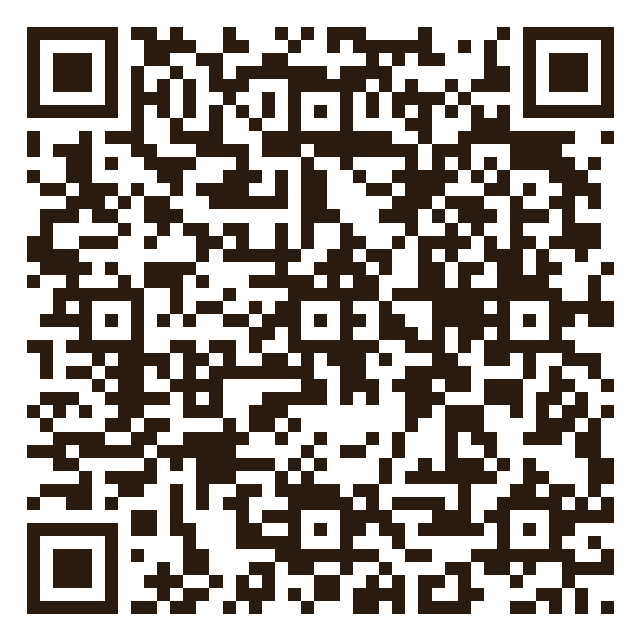
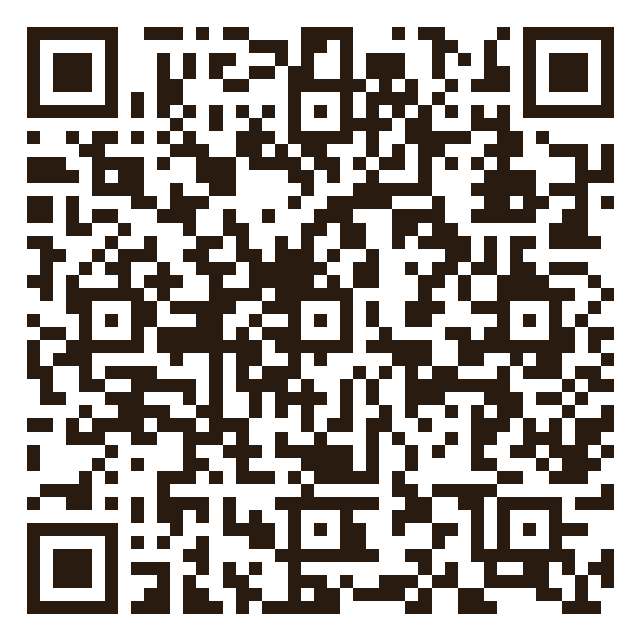
Número de WhatsApp nuevo: +54 9 11 7250-9550 (QRs y docs regenerados)
El sender productivo cambió de +5491162470002 a +5491172509550
(2026-08-12). Fuente de verdad actualizada (WHATSAPP_NUMERO en
src/lib/canales.ts): todos los links wa.me y QRs derivan de ahí.

- 8 QRs de qrs/ regenerados (qr:canales) y verificados por decodificación:
  todos apuntan a wa.me/5491172509550 con su marcador de canal intacto.
- Template del post de Instagram: QR nuevo montado en el mismo cuadro
  (reemplazo por detección del bbox del QR viejo), decodificado OK.
- docs/canales-acceso.md: número actualizado + advertencia operativa: los
  QRs impresos y links publicados con el número viejo QUEDAN MUERTOS y hay
  que reemplazarlos a mano (local, bio de IG, sitio, ficha de Google) — a
  diferencia del renombre de marca, esta vez el destino cambia.
- docs/whatsapp-plantillas.md: número actualizado + checklist del cambio de
  sender (secret TWILIO_WHATSAPP_FROM, webhook entrante del número nuevo,
  re-verificación de plantillas con whatsapp:plantilla).

El guia-qrs-canales.pdf no cambia: no contiene el número (los QRs viajan
aparte). Server-side pendiente (manual): actualizar el Project Secret y el
webhook del número en Twilio; pasos en el doc de plantillas.

Claude-Session: https://claude.ai/code/session_01PVEgtcT1KmyAfBK7x867K7

diff --git a/src/lib/canales.ts b/src/lib/canales.ts
@@ -10,8 +10,8 @@
 import type { OrigenLead } from '../fhir/identifiers.js';
 import { PORTAL_URL } from './onboarding.js';
 
-/** Número productivo de WhatsApp (E.164 sin '+'; el de wa.me). */
-export const WHATSAPP_NUMERO = '5491162470002';
+/** Número productivo de WhatsApp (E.164 sin '+'; el de wa.me). Cambiado 2026-08-12 (antes +5491162470002). */
+export const WHATSAPP_NUMERO = '5491172509550';
 
 /** URL base del portal (fuente de verdad: onboarding.ts — una sola, sin deriva). */
 export { PORTAL_URL };

diff --git a/docs/canales-acceso.md b/docs/canales-acceso.md
@@ -20,7 +20,13 @@ sistema pueda calcular o decidir.
 
 ## Canales, uno por uno
 
-### 1. WhatsApp directo — `wa.me/5491162470002` ✅ operativo
+> ⚠ **Cambio de número (2026-08-12):** el WhatsApp pasó de +54 9 11 6247-0002
+> a **+54 9 11 7250-9550**. QRs y links de este repo ya regenerados — pero
+> TODO lo publicado con el número viejo hay que reemplazarlo a mano: QRs
+> impresos en el local/flyers, link de la bio de Instagram, botón del sitio,
+> ficha de Google. Un QR viejo escaneado abre un chat que nadie atiende.
+
+### 1. WhatsApp directo — `wa.me/5491172509550` ✅ operativo
 El canal estrella: cualquier pieza (bio de Instagram, post de LinkedIn, QR,
 Google) puede apuntar al link `wa.me`. El mensaje entra **solo** a la bandeja.
 
@@ -141,7 +147,7 @@ Paquetes para equipos (p. ej. vía LinkedIn). Requiere definición comercial
 
 1. **Destino canónico del enlace público: WhatsApp para todo; el portal para
    autogestión.** Toda pieza pública (bio de IG, posts, QRs, ficha de Google)
-   apunta al `wa.me` del +54 9 11 6247-0002; el portal queda como segundo
+   apunta al `wa.me` del +54 9 11 7250-9550; el portal queda como segundo
    botón para quien prefiere autogestionarse.
 2. **Instagram DM: se deriva a WhatsApp** (respuesta corta en el DM + link
    `wa.me`). La integración del DM a la bandeja queda como mejora futura.

diff --git a/docs/whatsapp-plantillas.md b/docs/whatsapp-plantillas.md
@@ -1,6 +1,10 @@
 # WhatsApp en producción — plantillas de Meta (Twilio Content API)
 
-Número productivo: **+54 9 11 6247-0002**. Fuera de la ventana de 24 h (desde el
+Número productivo: **+54 9 11 7250-9550** (desde 2026-08-12; antes 6247-0002 —
+al cambiar de sender hay que re-verificar: Project Secret `TWILIO_WHATSAPP_FROM`,
+webhook de entrada del número nuevo apuntando a `bw-whatsapp-entrante`, y estado
+de aprobación de las plantillas sobre el sender nuevo con `npm run whatsapp:plantilla`).
+Fuera de la ventana de 24 h (desde el
 último mensaje del cliente), WhatsApp solo permite mensajes iniciados por el
 negocio si usan una **plantilla aprobada por Meta**. En Twilio, cada plantilla
 aprobada tiene un **Content SID** (`HX...`).
@@ -23,7 +27,7 @@ carga como secret se activa solo.
 
 1. Registrar el número como WhatsApp sender: Twilio → Messaging → Senders →
    WhatsApp senders (requiere verificación del negocio en Meta).
-2. Actualizar el Project Secret `TWILIO_WHATSAPP_FROM` → `+5491162470002`.
+2. Actualizar el Project Secret `TWILIO_WHATSAPP_FROM` → `+5491172509550`.
 3. Crear las plantillas en Twilio → Messaging → Content Template Builder
    (tipo *Text*), enviarlas a aprobación de WhatsApp, y cargar cada `HX...`
    como Project Secret con el nombre indicado abajo.
